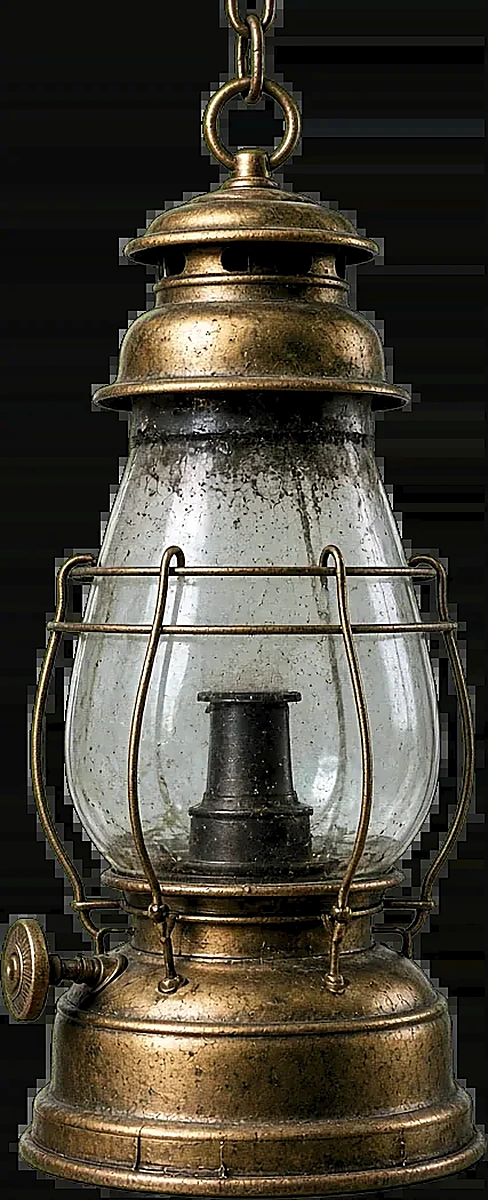
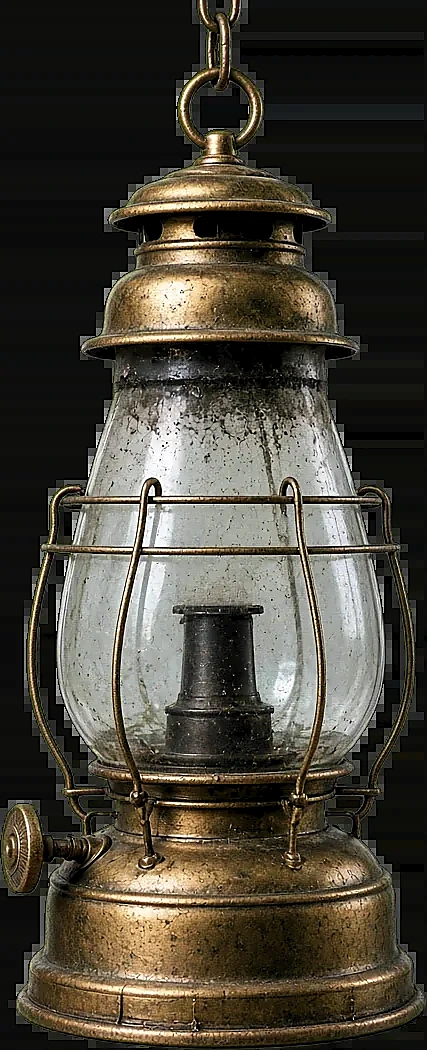
Ship: keep lantern at native 427x1050 from HD ref

diff --git a/assets/ship.js b/assets/ship.js
@@ -31,7 +31,7 @@ let c,iw,ih,lw,lhh,DPR=Math.min(devicePixelRatio||1,2.5);
 function fit(){const w=innerWidth,h=innerHeight;c=w<760?CFG.m:CFG.d;if(!deck.src.endsWith(c.src))deck.src=c.src;
 const s=Math.max(w/c.W,h/(c.H*.8))*1.04;iw=c.W*s;ih=c.H*s;const x=(w-iw)*c.ax,y=h-ih+ih*c.dy;
 ship.style.width=iw+'px';ship.style.height=ih+'px';ship.style.left=x+'px';ship.style.top=y+'px';
-lhh=ih*c.lh;lw=lhh*488/1200;Object.assign(lan.style,{width:lw+'px',height:lhh+'px',left:(c.hx*iw-lw/2)+'px',top:(c.hy*ih)+'px'});
+lhh=ih*c.lh;lw=lhh*427/1050;Object.assign(lan.style,{width:lw+'px',height:lhh+'px',left:(c.hx*iw-lw/2)+'px',top:(c.hy*ih)+'px'});
 fc.width=Math.round(lw*.5*DPR);fc.height=Math.round(lhh*.32*DPR);fc.style.width=lw*.5+'px';fc.style.height=lhh*.32+'px';
 const R=Math.max(180,iw*.2);glow.style.setProperty('--r',R+'px');glow.style.left=c.hx*iw+'px';glow.style.top=(c.hy*ih+lhh*.47)+'px';
 pool.style.left=c.px*iw+'px';pool.style.top=c.py*ih+'px';pool.style.setProperty('--r',iw*.22+'px')}
